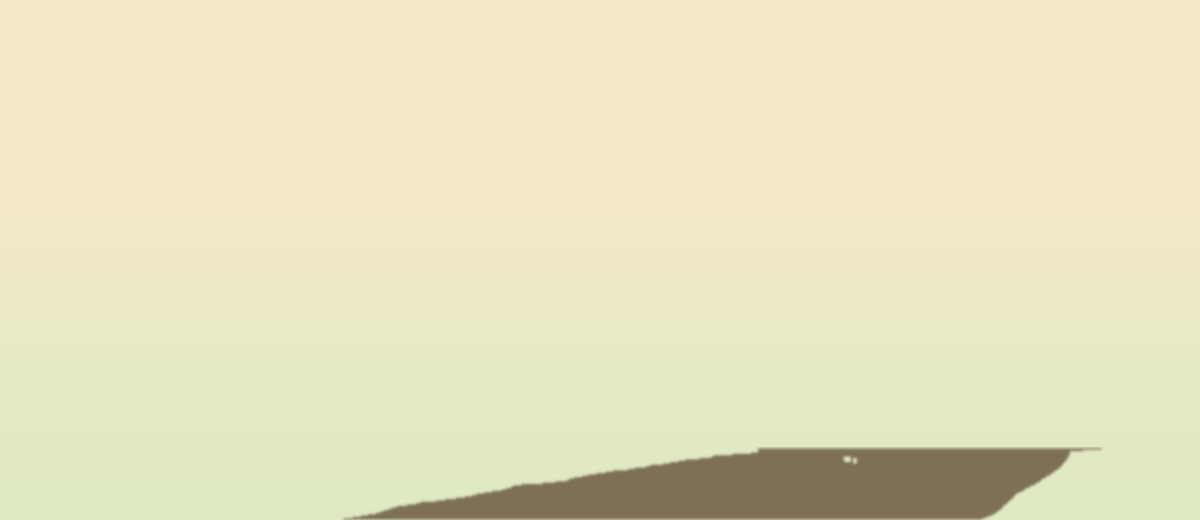
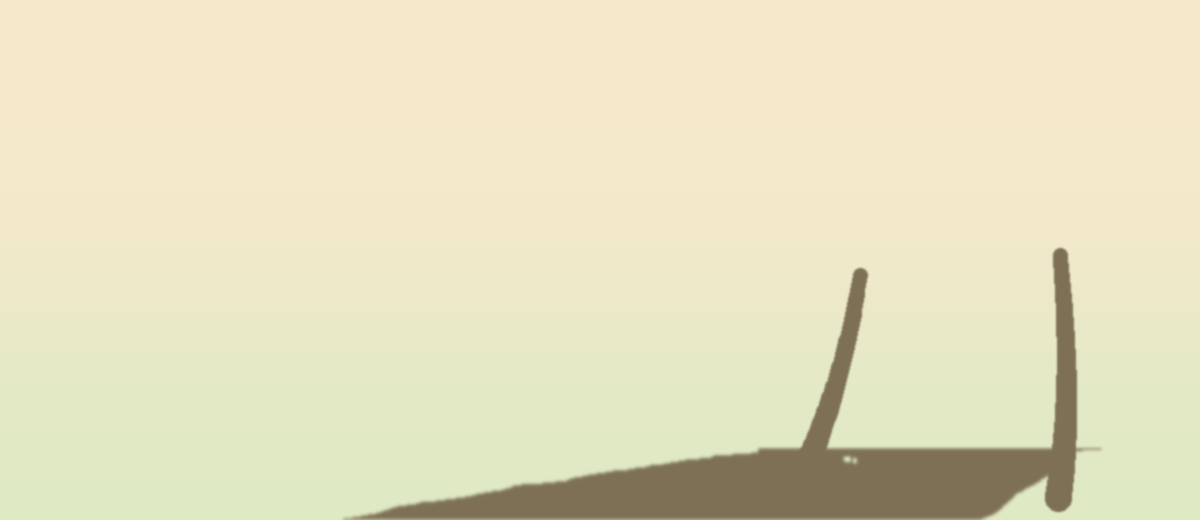
狍游记 V1.6.25
路新增两条贝塞尔连接段：从房子底部流畅接入路，四季同色

Changed region(s): [[0.8633, 0.4615, 0.925, 0.9846], [0.6475, 0.5231, 0.74, 0.8615]]

diff --git a/index.html b/index.html
@@ -1201,7 +1201,7 @@ input[type=range]{width:100%;accent-color:var(--caramel);}
 </div>
 
 <script>
-const APP_VER='1.6.24';
+const APP_VER='1.6.25';
 const APP_DATE='2026-09-21';
 try{document.getElementById('appVer').textContent='V'+APP_VER;}catch(e){}
 const KEY='paoyouji_state_v2';
